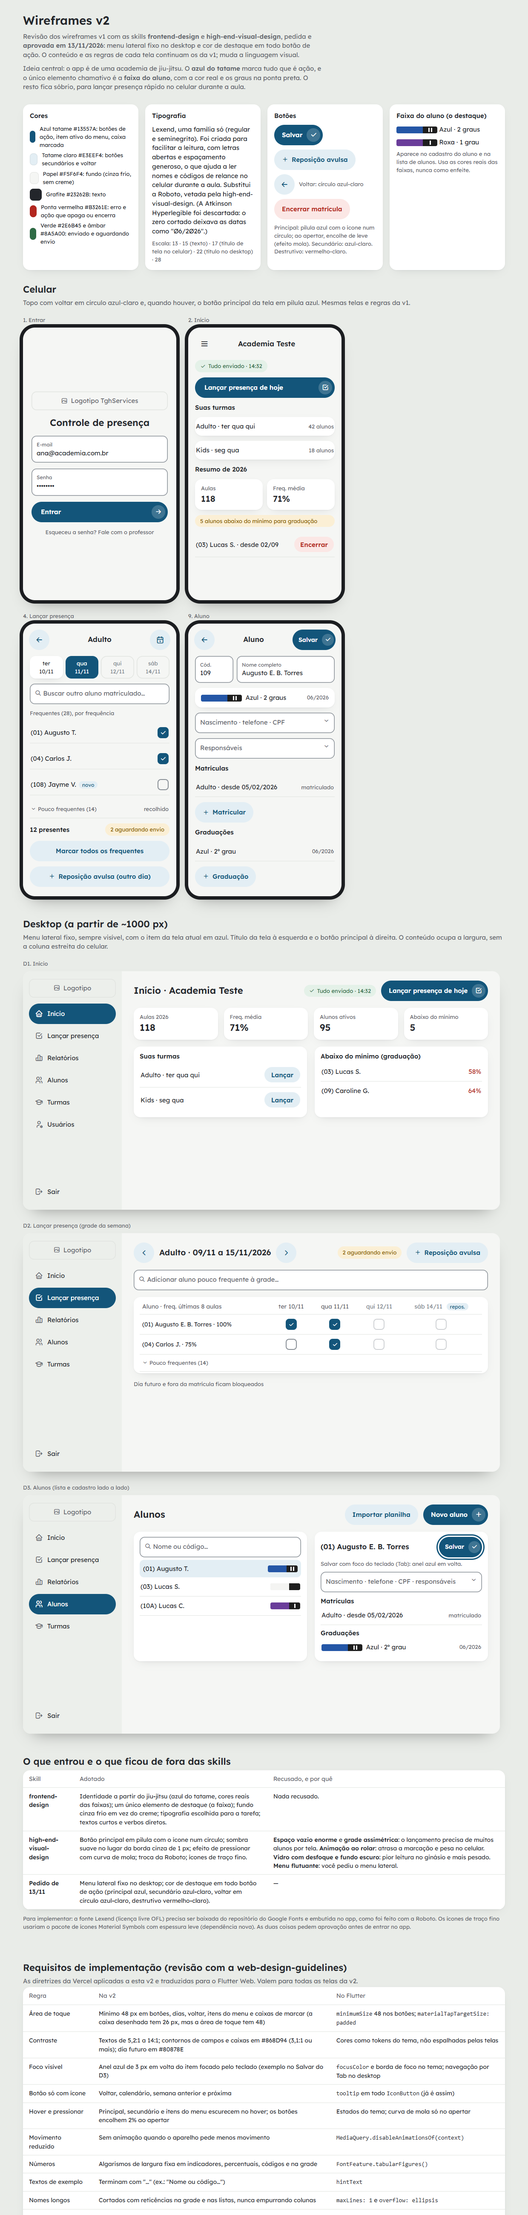
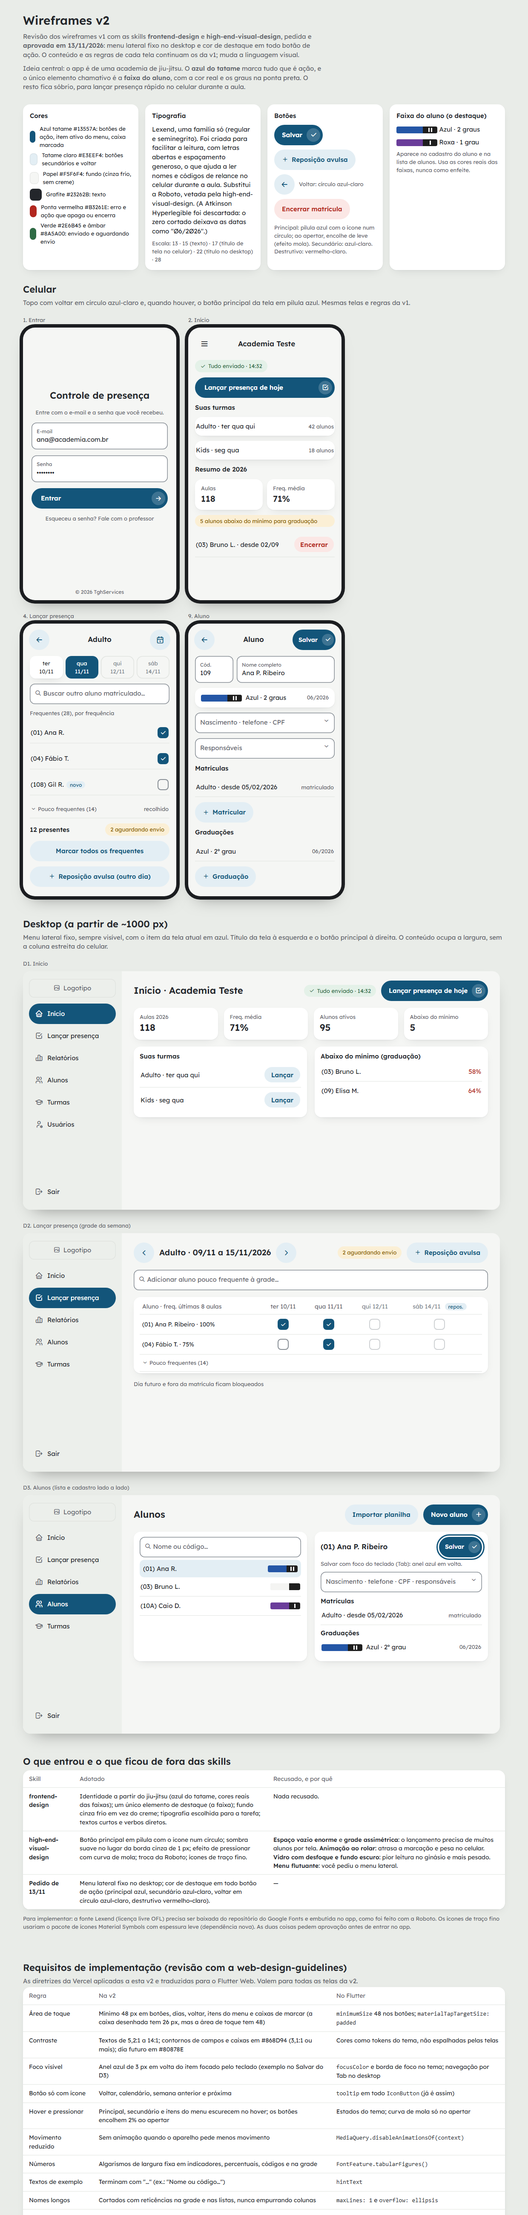
docs: troca nomes de alunos reais por fictícios nos wireframes e testes
Wireframes (fase 1, importação, relatórios e v2) e as imagens geradas
deles, manual 07 e testes da lista colada e do repositório de alunos.

Changed region(s): [[0.0613, 0.1558, 0.3371, 0.2492], [0.6129, 0.5919, 0.6435, 0.6231], [0.521, 0.5919, 0.5516, 0.6231]]

diff --git a/docs/telas/wireframes-fase1.html b/docs/telas/wireframes-fase1.html
@@ -68,7 +68,7 @@ body.uma .tela.ativa{display:block}
 <div style="display:flex;gap:8px"><div class="bx" style="flex:1">Aulas<br><b>118</b></div><div class="bx" style="flex:1">Freq. média<br><b>71%</b></div></div>
 <div class="wa">5 alunos abaixo do mínimo para graduação</div>
 <div class="wa">6 alunos sem vir há mais de 4 semanas</div>
-<div class="row"><span>(03) Lucas S. · desde 02/09</span><span class="bt" style="padding:4px 8px">Encerrar</span></div>
+<div class="row"><span>(03) Bruno L. · desde 02/09</span><span class="bt" style="padding:4px 8px">Encerrar</span></div>
 <div class="mu">Encerrar matrícula pede a data de fim (sugere a última presença). Sem logotipo cadastrado, mostra o nome da academia.</div>
 </div></div>
 
@@ -99,9 +99,9 @@ body.uma .tela.ativa{display:block}
 <div class="mu">Semana atual · dia futuro bloqueado · sáb = reposição fixa</div>
 <div class="bx"><i class="ti ti-search"></i> Buscar outro aluno matriculado</div>
 <div class="mu">Frequentes (28) · ordem por frequência</div>
-<div class="row"><span>(01) Augusto T.</span><span class="ck"><i class="ti ti-check"></i></span></div>
-<div class="row"><span>(04) Carlos J.</span><span class="ck"><i class="ti ti-check"></i></span></div>
-<div class="row"><span>(108) Jayme V. <span class="rp">novo</span></span><span class="ck"></span></div>
+<div class="row"><span>(01) Ana R.</span><span class="ck"><i class="ti ti-check"></i></span></div>
+<div class="row"><span>(04) Fábio T.</span><span class="ck"><i class="ti ti-check"></i></span></div>
+<div class="row"><span>(108) Gil R. <span class="rp">novo</span></span><span class="ck"></span></div>
 <div class="row"><span style="color:var(--t2)"><i class="ti ti-chevron-down"></i> Pouco frequentes (14)</span><span class="mu">recolhido</span></div>
 <div style="display:flex;justify-content:space-between;align-items:center"><span>12 presentes</span><span class="wa">2 aguardando envio</span></div>
 <div class="bt">Marcar todos os frequentes</div>
@@ -111,8 +111,8 @@ body.uma .tela.ativa{display:block}
 <div class="tela" id="t4b"><p class="lb">4b. Busca de aluno pouco frequente</p><div class="ph">
 <div class="bar"><i class="ti ti-arrow-left"></i><span>Adulto · qua 11/11</span><span></span></div>
 <div class="bx" style="color:var(--t1)"><i class="ti ti-search"></i> luc</div>
-<div class="row"><span>(03) Lucas S. <span class="mu">· 12% · última vez 02/09</span></span><span class="ck"></span></div>
-<div class="row"><span>(16) Lucas F. <span class="mu">· 0% · nunca veio</span></span><span class="ck"></span></div>
+<div class="row"><span>(03) Bruno L. <span class="mu">· 12% · última vez 02/09</span></span><span class="ck"></span></div>
+<div class="row"><span>(16) Hugo N. <span class="mu">· 0% · nunca veio</span></span><span class="ck"></span></div>
 <div class="mu">Ao marcar, o aluno volta para a lista de frequentes</div>
 </div></div>
 
@@ -127,10 +127,10 @@ body.uma .tela.ativa{display:block}
 <div class="tela" id="t6"><p class="lb">6. Frequência do semestre</p><div class="ph">
 <div class="bar"><i class="ti ti-arrow-left"></i><span>Graduação · Adulto</span><i class="ti ti-printer"></i></div>
 <div class="bx">2º sem. 2026 · até 11/11 · mínimo 75%</div>
-<div class="row"><span>(01) Augusto T.</span><span>92%</span></div>
-<div class="row"><span>(04) Carlos J.</span><span>81%</span></div>
-<div class="row" style="color:var(--dg)"><span>(03) Lucas S.</span><span>58%</span></div>
-<div class="row" style="color:var(--dg)"><span>(09) Caroline G.</span><span>64%</span></div>
+<div class="row"><span>(01) Ana R.</span><span>92%</span></div>
+<div class="row"><span>(04) Fábio T.</span><span>81%</span></div>
+<div class="row" style="color:var(--dg)"><span>(03) Bruno L.</span><span>58%</span></div>
+<div class="row" style="color:var(--dg)"><span>(09) Elisa M.</span><span>64%</span></div>
 <div class="mu">Presenças + reposições ÷ aulas lançadas na matrícula</div>
 </div></div>
 
@@ -150,16 +150,16 @@ body.uma .tela.ativa{display:block}
 <div class="bar"><i class="ti ti-arrow-left"></i><span>Alunos</span><i class="ti ti-plus"></i></div>
 <div class="bx"><i class="ti ti-search"></i> Nome ou código</div>
 <div class="mu">Ativos · 95</div>
-<div class="row"><span>(01) Augusto E. B. Torres</span><span class="mu">Adulto</span></div>
-<div class="row"><span>(03) Lucas V. S. da Mata</span><span class="mu">Adulto</span></div>
-<div class="row"><span>(10A) Lucas A. Costelinha</span><span class="mu">Kids</span></div>
+<div class="row"><span>(01) Ana P. Ribeiro</span><span class="mu">Adulto</span></div>
+<div class="row"><span>(03) Bruno S. Lima</span><span class="mu">Adulto</span></div>
+<div class="row"><span>(10A) Caio M. Duarte</span><span class="mu">Kids</span></div>
 <div class="bt">Importar planilha</div>
 </div></div>
 
 <div class="tela" id="t8b"><p class="lb">8b. Importar alunos · colar a lista</p><div class="ph">
 <div class="bar"><i class="ti ti-arrow-left"></i><span>Importar alunos</span><span></span></div>
 <div class="mu" style="color:var(--t2)">Na planilha, selecione as colunas código e nome, copie e cole aqui. Uma linha por aluno.</div>
-<div class="bx" style="min-height:140px;font-family:ui-monospace,Consolas,monospace;font-size:12px;line-height:1.6;color:var(--t1)">(01) Augusto E. B. Torres<br>(03) Lucas V. S. da Mata<br>10A&nbsp;&nbsp;Lucas A. Costelinha<br>...</div>
+<div class="bx" style="min-height:140px;font-family:ui-monospace,Consolas,monospace;font-size:12px;line-height:1.6;color:var(--t1)">(01) Ana P. Ribeiro<br>(03) Bruno S. Lima<br>10A&nbsp;&nbsp;Caio M. Duarte<br>...</div>
 <div class="mu">Código e nome separados por tab, ponto e vírgula ou espaço; "(10A)" vira "10A".</div>
 <div class="bt">Conferir lista</div>
 </div></div>
@@ -168,7 +168,7 @@ body.uma .tela.ativa{display:block}
 <div class="bar"><i class="ti ti-arrow-left"></i><span>Importar alunos</span><span></span></div>
 <div>95 linhas lidas</div>
 <div style="background:#fcebeb;color:var(--dg);border-radius:8px;padding:5px 10px;font-size:13px">Código 10A repetido nas linhas 12 e 40</div>
-<div style="background:#fcebeb;color:var(--dg);border-radius:8px;padding:5px 10px;font-size:13px">Código 03 já cadastrado (linha 2: Lucas V. S. da Mata)</div>
+<div style="background:#fcebeb;color:var(--dg);border-radius:8px;padding:5px 10px;font-size:13px">Código 03 já cadastrado (linha 2: Bruno S. Lima)</div>
 <div class="wa">Aviso: nome repetido "Ana Souza" (linhas 7 e 51)</div>
 <div class="mu">Corrija na planilha e cole de novo. Nada é gravado enquanto houver erro.</div>
 <div style="flex:1"></div>
@@ -267,8 +267,8 @@ body.uma .tela.ativa{display:block}
 <div class="row"><span>Adulto · ter qua qui</span><span class="bt">Lançar</span></div>
 <div class="row"><span>Kids · seg qua</span><span class="bt">Lançar</span></div></div>
 <div><div class="h">Abaixo do mínimo (graduação)</div>
-<div class="row"><span>(03) Lucas S.</span><span>58%</span></div>
-<div class="row"><span>(09) Caroline G.</span><span>64%</span></div></div>
+<div class="row"><span>(03) Bruno L.</span><span>58%</span></div>
+<div class="row"><span>(09) Elisa M.</span><span>64%</span></div></div>
 </div></div></div></div>
 
 <div class="tela dsk" id="d2"><p class="lb">D2. Lançar presença (desktop: grade da semana)</p><div class="dk"><div class="sd">
@@ -278,8 +278,8 @@ body.uma .tela.ativa{display:block}
 <div class="bar"><span>Adulto · semana de 09/11 a 15/11/2026</span><span style="display:flex;gap:8px"><span class="bt"><i class="ti ti-chevron-left"></i></span><span class="bt"><i class="ti ti-chevron-right"></i></span><span class="bt">+ Reposição avulsa</span></span></div>
 <div class="bx"><i class="ti ti-search"></i> Adicionar aluno pouco frequente à grade</div>
 <table class="tb"><tr><th>Aluno · freq. últimas 8 aulas</th><th>ter 10/11</th><th>qua 11/11</th><th class="off">qui 12/11</th><th class="off">sáb 14/11 <span class="rp">repos.</span></th></tr>
-<tr><td>(01) Augusto E. B. Torres · 100%</td><td><span class="ck"><i class="ti ti-check"></i></span></td><td><span class="ck"><i class="ti ti-check"></i></span></td><td><span class="ck off"></span></td><td><span class="ck off"></span></td></tr>
-<tr><td>(04) Carlos J. · 75%</td><td><span class="ck"></span></td><td><span class="ck"><i class="ti ti-check"></i></span></td><td><span class="ck off"></span></td><td><span class="ck off"></span></td></tr>
+<tr><td>(01) Ana P. Ribeiro · 100%</td><td><span class="ck"><i class="ti ti-check"></i></span></td><td><span class="ck"><i class="ti ti-check"></i></span></td><td><span class="ck off"></span></td><td><span class="ck off"></span></td></tr>
+<tr><td>(04) Fábio T. · 75%</td><td><span class="ck"></span></td><td><span class="ck"><i class="ti ti-check"></i></span></td><td><span class="ck off"></span></td><td><span class="ck off"></span></td></tr>
 <tr><td style="color:var(--t2)"><i class="ti ti-chevron-down"></i> Pouco frequentes (14)</td><td></td><td></td><td></td><td></td></tr>
 </table>
 <div style="display:flex;justify-content:space-between;align-items:center"><span class="mu">Dia futuro e fora da matrícula ficam bloqueados</span><span class="wa">2 aguardando envio</span></div>
@@ -290,11 +290,11 @@ body.uma .tela.ativa{display:block}
 <div class="it">Início</div><div class="it">Lançar presença</div><div class="it">Relatórios</div><div class="it at">Alunos</div><div class="it">Turmas</div>
 </div><div class="mn" style="display:grid;grid-template-columns:1fr 1.2fr;gap:16px">
 <div><div class="bx" style="margin-bottom:8px"><i class="ti ti-search"></i> Nome ou código</div>
-<div class="row" style="background:var(--s1)"><span>(01) Augusto T.</span><span class="mu">Adulto</span></div>
-<div class="row"><span>(03) Lucas S.</span><span class="mu">Adulto</span></div>
-<div class="row"><span>(10A) Lucas C.</span><span class="mu">Kids</span></div>
+<div class="row" style="background:var(--s1)"><span>(01) Ana R.</span><span class="mu">Adulto</span></div>
+<div class="row"><span>(03) Bruno L.</span><span class="mu">Adulto</span></div>
+<div class="row"><span>(10A) Caio D.</span><span class="mu">Kids</span></div>
 <div style="display:flex;gap:8px;margin-top:10px"><span class="bt">+ Novo aluno</span><span class="bt">Importar planilha</span></div></div>
-<div style="display:flex;flex-direction:column;gap:8px"><div class="bar"><span>(01) Augusto E. B. Torres</span><span class="bt">Salvar</span></div>
+<div style="display:flex;flex-direction:column;gap:8px"><div class="bar"><span>(01) Ana P. Ribeiro</span><span class="bt">Salvar</span></div>
 <div class="bx">Nascimento · telefone · CPF · responsáveis</div>
 <div class="h">Matrículas</div><div class="row"><span>Adulto · 05/02/2026 →</span><span class="mu">matriculado</span></div>
 <div class="h">Graduações</div><div class="row"><span>Azul · 2º grau</span><span class="mu">06/2026</span></div></div>
@@ -306,8 +306,8 @@ body.uma .tela.ativa{display:block}
 </div><div class="mn">
 <div class="bar"><span>Frequência para graduação · Adulto · 2º sem. 2026</span><span class="bt"><i class="ti ti-printer"></i> Imprimir / PDF</span></div>
 <table class="tb"><tr><th>Aluno</th><th>Aulas</th><th>Presenças</th><th>Reposições</th><th>Freq.</th></tr>
-<tr><td>(01) Augusto T.</td><td>48</td><td>43</td><td>1</td><td>92%</td></tr>
-<tr style="color:var(--dg)"><td>(03) Lucas S.</td><td>48</td><td>26</td><td>2</td><td>58%</td></tr></table>
+<tr><td>(01) Ana R.</td><td>48</td><td>43</td><td>1</td><td>92%</td></tr>
+<tr style="color:var(--dg)"><td>(03) Bruno L.</td><td>48</td><td>26</td><td>2</td><td>58%</td></tr></table>
 <div class="mu">Cabeçalho impresso: logotipo + academia + turma + cabeçalhos configurados</div>
 </div></div></div>
 

diff --git a/docs/telas/wireframes-relatorios.html b/docs/telas/wireframes-relatorios.html
@@ -165,9 +165,9 @@ td:first-child,th:first-child{text-align:left}
       <div class="cartao" style="padding:6px 12px">
         <div class="semana">2ª semana · 08/11 a 14/11</div>
         <table class="mini"><tr><th>Aluno</th><th>ter</th><th>qua</th><th>qui</th><th>sáb<br><span class="tag" style="margin:0">repos.</span></th><th>Total</th></tr>
-          <tr><td>(01) Augusto T.</td><td class="v"><i class="ti ti-check" aria-label="veio"></i></td><td class="v"><i class="ti ti-check" aria-label="veio"></i></td><td class="v"><i class="ti ti-check" aria-label="veio"></i></td><td class="x">·</td><td>3</td></tr>
-          <tr><td>(02) Beatriz N.</td><td class="v"><i class="ti ti-check" aria-label="veio"></i></td><td class="v"><i class="ti ti-check" aria-label="veio"></i></td><td class="x">·</td><td class="x">·</td><td>2</td></tr>
-          <tr><td>(03) Lucas S.</td><td class="v"><i class="ti ti-check" aria-label="veio"></i></td><td class="x">·</td><td class="x">·</td><td class="x">·</td><td>1</td></tr>
+          <tr><td>(01) Ana R.</td><td class="v"><i class="ti ti-check" aria-label="veio"></i></td><td class="v"><i class="ti ti-check" aria-label="veio"></i></td><td class="v"><i class="ti ti-check" aria-label="veio"></i></td><td class="x">·</td><td>3</td></tr>
+          <tr><td>(02) Diana F.</td><td class="v"><i class="ti ti-check" aria-label="veio"></i></td><td class="v"><i class="ti ti-check" aria-label="veio"></i></td><td class="x">·</td><td class="x">·</td><td>2</td></tr>
+          <tr><td>(03) Bruno L.</td><td class="v"><i class="ti ti-check" aria-label="veio"></i></td><td class="x">·</td><td class="x">·</td><td class="x">·</td><td>1</td></tr>
           <tr><td>Presentes</td><td>5</td><td>4</td><td>5</td><td>–</td><td></td></tr></table>
       </div>
       <div style="display:flex;justify-content:space-between"><span class="bs"><i class="ti ti-chevron-left"></i>1ª semana</span><span class="bs">3ª semana<i class="ti ti-chevron-right"></i></span></div>
@@ -181,9 +181,9 @@ td:first-child,th:first-child{text-align:left}
       <div class="mu">01/08 a 30/11/2026 · mínimo 75%</div>
       <div class="cartao" style="padding:6px 12px">
         <table class="mini"><tr><th>Aluno</th><th>ago</th><th>set</th><th>out</th><th>nov</th><th>Freq.</th></tr>
-          <tr><td>(01) Augusto T.</td><td>12</td><td>13</td><td>14</td><td>6</td><td>100%</td></tr>
-          <tr><td>(02) Beatriz N.</td><td>11</td><td>12</td><td>12</td><td>5</td><td>90%</td></tr>
-          <tr><td>(03) Lucas S.</td><td>7</td><td>6</td><td>8</td><td>3</td><td class="baixo">53%</td></tr>
+          <tr><td>(01) Ana R.</td><td>12</td><td>13</td><td>14</td><td>6</td><td>100%</td></tr>
+          <tr><td>(02) Diana F.</td><td>11</td><td>12</td><td>12</td><td>5</td><td>90%</td></tr>
+          <tr><td>(03) Bruno L.</td><td>7</td><td>6</td><td>8</td><td>3</td><td class="baixo">53%</td></tr>
           <tr><td>Aulas</td><td>12</td><td>13</td><td>14</td><td>6</td><td></td></tr></table>
       </div>
       <div class="mu">Toque no aluno para ver aulas, presenças e reposições do período.</div>
@@ -196,9 +196,9 @@ td:first-child,th:first-child{text-align:left}
       <div class="mu">2026 · role para o lado para ver todos os meses</div>
       <div class="cartao" style="padding:6px 12px;overflow:hidden">
         <table class="mini"><tr><th>Aluno</th><th>jan</th><th>fev</th><th>mar</th><th>…</th><th>dez</th><th>Total</th></tr>
-          <tr><td>(01) Augusto T.</td><td>10</td><td>11</td><td>13</td><td>…</td><td>–</td><td>118</td></tr>
-          <tr><td>(02) Beatriz N.</td><td>9</td><td>12</td><td>11</td><td>…</td><td>–</td><td>104</td></tr>
-          <tr><td>(03) Lucas S.</td><td>6</td><td>5</td><td>7</td><td>…</td><td>–</td><td>61</td></tr>
+          <tr><td>(01) Ana R.</td><td>10</td><td>11</td><td>13</td><td>…</td><td>–</td><td>118</td></tr>
+          <tr><td>(02) Diana F.</td><td>9</td><td>12</td><td>11</td><td>…</td><td>–</td><td>104</td></tr>
+          <tr><td>(03) Bruno L.</td><td>6</td><td>5</td><td>7</td><td>…</td><td>–</td><td>61</td></tr>
           <tr><td>Aulas</td><td>12</td><td>12</td><td>13</td><td>…</td><td>–</td><td>131</td></tr></table>
       </div>
       <div class="mu">Mês futuro com "–"; a coluna do aluno fica fixa ao rolar.</div>
@@ -208,7 +208,7 @@ td:first-child,th:first-child{text-align:left}
   <div><p class="rot">7d. Por aluno</p><div class="cel">
     <div class="topo"><span class="voltar"><i class="ti ti-arrow-left"></i></span><span class="tit">Por aluno</span><span class="voltar"><i class="ti ti-printer"></i></span></div>
     <div class="corpo">
-      <div class="campo"><b>Aluno</b><span>(03) Lucas Siqueira</span> <i class="ti ti-search" style="float:right"></i></div>
+      <div class="campo"><b>Aluno</b><span>(03) Bruno Lima</span> <i class="ti ti-search" style="float:right"></i></div>
       <div style="display:flex;gap:10px">
         <div class="cartao" style="flex:1"><div class="mu">Aulas</div><div class="h" style="font-size:20px">14</div></div>
         <div class="cartao" style="flex:1"><div class="mu">Veio</div><div class="h" style="font-size:20px">8</div><div class="mu">1 reposição</div></div>
@@ -251,8 +251,8 @@ td:first-child,th:first-child{text-align:left}
       <div class="cartao" style="padding:6px 14px">
         <table><tr><th rowspan="2">Aluno</th><th colspan="4">1ª sem. · 01 a 07/11</th><th colspan="4">2ª sem. · 08 a 14/11</th><th rowspan="2">Total</th></tr>
           <tr><th>ter</th><th>qua</th><th>qui</th><th>sáb</th><th>ter</th><th>qua</th><th>qui</th><th>sáb</th></tr>
-          <tr><td>(01) Augusto E. B. Torres</td><td class="v"><i class="ti ti-check" aria-label="veio"></i></td><td class="v"><i class="ti ti-check" aria-label="veio"></i></td><td class="v"><i class="ti ti-check" aria-label="veio"></i></td><td class="x">·</td><td class="v"><i class="ti ti-check" aria-label="veio"></i></td><td class="v"><i class="ti ti-check" aria-label="veio"></i></td><td class="v"><i class="ti ti-check" aria-label="veio"></i></td><td class="x">·</td><td>6</td></tr>
-          <tr><td>(02) Beatriz Nogueira</td><td class="x">·</td><td class="v"><i class="ti ti-check" aria-label="veio"></i></td><td class="v"><i class="ti ti-check" aria-label="veio"></i></td><td class="x">·</td><td class="v"><i class="ti ti-check" aria-label="veio"></i></td><td class="v"><i class="ti ti-check" aria-label="veio"></i></td><td class="x">·</td><td class="x">·</td><td>4</td></tr>
+          <tr><td>(01) Ana P. Ribeiro</td><td class="v"><i class="ti ti-check" aria-label="veio"></i></td><td class="v"><i class="ti ti-check" aria-label="veio"></i></td><td class="v"><i class="ti ti-check" aria-label="veio"></i></td><td class="x">·</td><td class="v"><i class="ti ti-check" aria-label="veio"></i></td><td class="v"><i class="ti ti-check" aria-label="veio"></i></td><td class="v"><i class="ti ti-check" aria-label="veio"></i></td><td class="x">·</td><td>6</td></tr>
+          <tr><td>(02) Diana Freitas</td><td class="x">·</td><td class="v"><i class="ti ti-check" aria-label="veio"></i></td><td class="v"><i class="ti ti-check" aria-label="veio"></i></td><td class="x">·</td><td class="v"><i class="ti ti-check" aria-label="veio"></i></td><td class="v"><i class="ti ti-check" aria-label="veio"></i></td><td class="x">·</td><td class="x">·</td><td>4</td></tr>
           <tr><td>(08) Gabriel Antunes</td><td></td><td></td><td></td><td></td><td></td><td class="v"><i class="ti ti-check" aria-label="veio"></i></td><td class="v"><i class="ti ti-check" aria-label="veio"></i></td><td class="x">·</td><td>2</td></tr>
           <tr><td>Presentes</td><td>4</td><td>5</td><td>3</td><td>0</td><td>5</td><td>4</td><td>5</td><td>–</td><td></td></tr></table>
       </div>
@@ -282,9 +282,9 @@ td:first-child,th:first-child{text-align:left}
       <div class="seg"><span class="chip"><i class="ti ti-calendar-week"></i>Semanal</span><span class="chip"><i class="ti ti-calendar-month"></i>Mensal</span><span class="chip at"><i class="ti ti-calendar"></i>Anual</span><span class="chip"><i class="ti ti-user"></i>Por aluno</span><span class="chip"><i class="ti ti-award"></i>Graduação</span></div>
       <div class="cartao" style="padding:6px 14px">
         <table><tr><th>Aluno</th><th>JAN</th><th>FEV</th><th>MAR</th><th>ABR</th><th>MAI</th><th>JUN</th><th>JUL</th><th>AGO</th><th>SET</th><th>OUT</th><th>NOV</th><th>DEZ</th><th>Total</th></tr>
-          <tr><td>(01) Augusto E. B. Torres</td><td>10</td><td>11</td><td>13</td><td>12</td><td>12</td><td>11</td><td>9</td><td>12</td><td>13</td><td>14</td><td>6</td><td>–</td><td>123</td></tr>
-          <tr><td>(02) Beatriz Nogueira</td><td>9</td><td>12</td><td>11</td><td>10</td><td>11</td><td>9</td><td>8</td><td>11</td><td>12</td><td>12</td><td>5</td><td>–</td><td>110</td></tr>
-          <tr><td>(03) Lucas Siqueira</td><td>6</td><td>5</td><td>7</td><td>6</td><td>5</td><td>6</td><td>4</td><td>7</td><td>6</td><td>8</td><td>3</td><td>–</td><td>63</td></tr>
+          <tr><td>(01) Ana P. Ribeiro</td><td>10</td><td>11</td><td>13</td><td>12</td><td>12</td><td>11</td><td>9</td><td>12</td><td>13</td><td>14</td><td>6</td><td>–</td><td>123</td></tr>
+          <tr><td>(02) Diana Freitas</td><td>9</td><td>12</td><td>11</td><td>10</td><td>11</td><td>9</td><td>8</td><td>11</td><td>12</td><td>12</td><td>5</td><td>–</td><td>110</td></tr>
+          <tr><td>(03) Bruno Lima</td><td>6</td><td>5</td><td>7</td><td>6</td><td>5</td><td>6</td><td>4</td><td>7</td><td>6</td><td>8</td><td>3</td><td>–</td><td>63</td></tr>
           <tr><td>Aulas</td><td>12</td><td>12</td><td>13</td><td>13</td><td>13</td><td>12</td><td>10</td><td>12</td><td>13</td><td>14</td><td>6</td><td>–</td><td>130</td></tr></table>
       </div>
     </div>
@@ -299,9 +299,9 @@ td:first-child,th:first-child{text-align:left}
       <div style="flex:1"><h3>Academia Teste</h3><div>Prof. Fulano · cabeçalho de impressão da academia</div><div><b>Turma Adulto</b> · cabeçalho de impressão da turma</div></div>
       <div style="text-align:right"><b>Presença mensal</b><br>01/08 a 30/11/2026<br>Mínimo 75%</div></div>
     <table><tr><th style="text-align:left">Aluno</th><th>ago</th><th>set</th><th>out</th><th>nov</th><th>Aulas</th><th>Presenças</th><th>Repos.</th><th>Freq.</th></tr>
-      <tr><td style="text-align:left">(01) Augusto Eduardo Barbosa Torres</td><td>12</td><td>13</td><td>14</td><td>6</td><td>45</td><td>45</td><td>0</td><td>100%</td></tr>
-      <tr><td style="text-align:left">(02) Beatriz Nogueira</td><td>11</td><td>12</td><td>12</td><td>5</td><td>45</td><td>40</td><td>1</td><td>91%</td></tr>
-      <tr><td style="text-align:left">(03) Lucas Siqueira</td><td>7</td><td>6</td><td>8</td><td>3</td><td>45</td><td>24</td><td>0</td><td><b>53%</b></td></tr></table>
+      <tr><td style="text-align:left">(01) Ana Paula Ribeiro</td><td>12</td><td>13</td><td>14</td><td>6</td><td>45</td><td>45</td><td>0</td><td>100%</td></tr>
+      <tr><td style="text-align:left">(02) Diana Freitas</td><td>11</td><td>12</td><td>12</td><td>5</td><td>45</td><td>40</td><td>1</td><td>91%</td></tr>
+      <tr><td style="text-align:left">(03) Bruno Lima</td><td>7</td><td>6</td><td>8</td><td>3</td><td>45</td><td>24</td><td>0</td><td><b>53%</b></td></tr></table>
     <p style="margin:14px 0 0;color:#555">Frequência = presenças + reposições ÷ aulas regulares lançadas dentro da matrícula (limite de 100%). Gerado em 13/11/2026 às 10:15 por Ana (assistente).</p>
   </div></div>
 </div>

diff --git a/docs/telas/wireframes-v2.html b/docs/telas/wireframes-v2.html
@@ -160,7 +160,7 @@ td:first-child,th:first-child{text-align:left}
       <div class="h">Resumo de 2026</div>
       <div style="display:flex;gap:10px"><div class="cartao" style="flex:1"><div class="mu">Aulas</div><div class="h" style="font-size:20px">118</div></div><div class="cartao" style="flex:1"><div class="mu">Freq. média</div><div class="h" style="font-size:20px">71%</div></div></div>
       <div class="av">5 alunos abaixo do mínimo para graduação</div>
-      <div class="lin">(03) Lucas S. · desde 02/09<span class="bs bd" style="min-height:36px;padding:6px 14px">Encerrar</span></div>
+      <div class="lin">(03) Bruno L. · desde 02/09<span class="bs bd" style="min-height:36px;padding:6px 14px">Encerrar</span></div>
     </div>
   </div></div>
 
@@ -170,9 +170,9 @@ td:first-child,th:first-child{text-align:left}
       <div class="dias"><div class="dia">ter<br>10/11</div><div class="dia sel">qua<br>11/11</div><div class="dia off">qui<br>12/11</div><div class="dia off">sáb<br>14/11</div></div>
       <div class="campo"><i class="ti ti-search"></i> Buscar outro aluno matriculado…</div>
       <div class="mu">Frequentes (28), por frequência</div>
-      <div class="lin">(01) Augusto T.<span class="ck on"><i class="ti ti-check"></i></span></div>
-      <div class="lin">(04) Carlos J.<span class="ck on"><i class="ti ti-check"></i></span></div>
-      <div class="lin"><span>(108) Jayme V.<span class="tag">novo</span></span><span class="ck"></span></div>
+      <div class="lin">(01) Ana R.<span class="ck on"><i class="ti ti-check"></i></span></div>
+      <div class="lin">(04) Fábio T.<span class="ck on"><i class="ti ti-check"></i></span></div>
+      <div class="lin"><span>(108) Gil R.<span class="tag">novo</span></span><span class="ck"></span></div>
       <div class="lin mu"><span><i class="ti ti-chevron-down"></i> Pouco frequentes (14)</span>recolhido</div>
       <div style="display:flex;justify-content:space-between;align-items:center"><span class="h">12 presentes</span><span class="av">2 aguardando envio</span></div>
       <span class="bs lg">Marcar todos os frequentes</span>
@@ -183,7 +183,7 @@ td:first-child,th:first-child{text-align:left}
   <div><p class="rot">9. Aluno</p><div class="cel">
     <div class="topo"><span class="voltar"><i class="ti ti-arrow-left"></i></span><span class="tit">Aluno</span><span class="bp sm">Salvar<span class="ic"><i class="ti ti-check"></i></span></span></div>
     <div class="corpo">
-      <div style="display:flex;gap:8px"><div class="campo" style="width:90px"><b>Cód.</b><span>109</span></div><div class="campo" style="flex:1"><b>Nome completo</b><span>Augusto E. B. Torres</span></div></div>
+      <div style="display:flex;gap:8px"><div class="campo" style="width:90px"><b>Cód.</b><span>109</span></div><div class="campo" style="flex:1"><b>Nome completo</b><span>Ana P. Ribeiro</span></div></div>
       <div class="cartao" style="display:flex;align-items:center;justify-content:space-between"><span><span class="faixa"><span class="cor f-azul"></span><span class="pt"><i></i><i></i></span></span> &nbsp;Azul · 2 graus</span><span class="mu">06/2026</span></div>
       <div class="campo">Nascimento · telefone · CPF <i class="ti ti-chevron-down" style="float:right"></i></div>
       <div class="campo">Responsáveis <i class="ti ti-chevron-down" style="float:right"></i></div>
@@ -226,8 +226,8 @@ td:first-child,th:first-child{text-align:left}
           <div class="lin">Adulto · ter qua qui<span class="bs" style="min-height:36px;padding:6px 16px">Lançar</span></div>
           <div class="lin" style="border:0">Kids · seg qua<span class="bs" style="min-height:36px;padding:6px 16px">Lançar</span></div></div>
         <div class="cartao"><div class="h" style="margin-bottom:4px">Abaixo do mínimo (graduação)</div>
-          <div class="lin">(03) Lucas S.<span style="color:var(--ponta)">58%</span></div>
-          <div class="lin" style="border:0">(09) Caroline G.<span style="color:var(--ponta)">64%</span></div></div>
+          <div class="lin">(03) Bruno L.<span style="color:var(--ponta)">58%</span></div>
+          <div class="lin" style="border:0">(09) Elisa M.<span style="color:var(--ponta)">64%</span></div></div>
       </div>
     </div>
   </div></div>
@@ -248,8 +248,8 @@ td:first-child,th:first-child{text-align:left}
       <div class="campo"><i class="ti ti-search"></i> Adicionar aluno pouco frequente à grade…</div>
       <div class="cartao" style="padding:4px 14px"><table>
         <tr><th>Aluno · freq. últimas 8 aulas</th><th>ter 10/11</th><th>qua 11/11</th><th style="color:var(--desativado)">qui 12/11</th><th style="color:var(--desativado)">sáb 14/11 <span class="tag">repos.</span></th></tr>
-        <tr><td>(01) Augusto E. B. Torres · 100%</td><td><span class="ck on" style="margin:auto"><i class="ti ti-check"></i></span></td><td><span class="ck on" style="margin:auto"><i class="ti ti-check"></i></span></td><td><span class="ck" style="margin:auto;opacity:.4"></span></td><td><span class="ck" style="margin:auto;opacity:.4"></span></td></tr>
-        <tr><td>(04) Carlos J. · 75%</td><td><span class="ck" style="margin:auto"></span></td><td><span class="ck on" style="margin:auto"><i class="ti ti-check"></i></span></td><td><span class="ck" style="margin:auto;opacity:.4"></span></td><td><span class="ck" style="margin:auto;opacity:.4"></span></td></tr>
+        <tr><td>(01) Ana P. Ribeiro · 100%</td><td><span class="ck on" style="margin:auto"><i class="ti ti-check"></i></span></td><td><span class="ck on" style="margin:auto"><i class="ti ti-check"></i></span></td><td><span class="ck" style="margin:auto;opacity:.4"></span></td><td><span class="ck" style="margin:auto;opacity:.4"></span></td></tr>
+        <tr><td>(04) Fábio T. · 75%</td><td><span class="ck" style="margin:auto"></span></td><td><span class="ck on" style="margin:auto"><i class="ti ti-check"></i></span></td><td><span class="ck" style="margin:auto;opacity:.4"></span></td><td><span class="ck" style="margin:auto;opacity:.4"></span></td></tr>
         <tr><td colspan="5" class="mu"><i class="ti ti-chevron-down"></i> Pouco frequentes (14)</td></tr>
       </table></div>
       <div class="mu">Dia futuro e fora da matrícula ficam bloqueados</div>
@@ -272,12 +272,12 @@ td:first-child,th:first-child{text-align:left}
       <div class="dois">
         <div class="cartao">
           <div class="campo" style="margin-bottom:6px"><i class="ti ti-search"></i> Nome ou código…</div>
-          <div class="lin" style="background:var(--tatame-claro);border-radius:10px;padding:10px 8px;border:0"><span>(01) Augusto T.</span><span class="faixa" style="width:70px"><span class="cor f-azul"></span><span class="pt" style="width:26px"><i></i><i></i></span></span></div>
-          <div class="lin"><span>(03) Lucas S.</span><span class="faixa" style="width:70px"><span class="cor f-branca"></span><span class="pt" style="width:26px"></span></span></div>
-          <div class="lin"><span>(10A) Lucas C.</span><span class="faixa" style="width:70px"><span class="cor f-roxa"></span><span class="pt" style="width:26px"><i></i></span></span></div>
+          <div class="lin" style="background:var(--tatame-claro);border-radius:10px;padding:10px 8px;border:0"><span>(01) Ana R.</span><span class="faixa" style="width:70px"><span class="cor f-azul"></span><span class="pt" style="width:26px"><i></i><i></i></span></span></div>
+          <div class="lin"><span>(03) Bruno L.</span><span class="faixa" style="width:70px"><span class="cor f-branca"></span><span class="pt" style="width:26px"></span></span></div>
+          <div class="lin"><span>(10A) Caio D.</span><span class="faixa" style="width:70px"><span class="cor f-roxa"></span><span class="pt" style="width:26px"><i></i></span></span></div>
         </div>
         <div class="cartao">
-          <div class="cab"><span class="tit" style="font-size:17px">(01) Augusto E. B. Torres</span><span class="bp sm foco">Salvar<span class="ic"><i class="ti ti-check"></i></span></span></div>
+          <div class="cab"><span class="tit" style="font-size:17px">(01) Ana P. Ribeiro</span><span class="bp sm foco">Salvar<span class="ic"><i class="ti ti-check"></i></span></span></div>
           <div class="mu" style="margin-top:6px">Salvar com foco do teclado (Tab): anel azul em volta.</div>
           <div class="campo" style="margin:10px 0">Nascimento · telefone · CPF · responsáveis <i class="ti ti-chevron-down" style="float:right"></i></div>
           <div class="h">Matrículas</div>

diff --git a/docs/telas/wireframes-importacao.html b/docs/telas/wireframes-importacao.html
@@ -145,7 +145,7 @@ td:first-child,th:first-child{text-align:left}
     <div class="topo"><span class="voltar"><i class="ti ti-arrow-left"></i></span><span class="tit">Importar alunos</span><span style="width:48px"></span></div>
     <div class="corpo">
       <div class="mu" style="font-size:14px">Na planilha, selecione as colunas código e nome, copie e cole aqui. Uma linha por aluno.</div>
-      <div class="colado">(01) Augusto E. B. Torres<br>(03) Lucas V. S. da Mata<br>10A&nbsp;&nbsp;Lucas A. Costelinha<br>...</div>
+      <div class="colado">(01) Ana P. Ribeiro<br>(03) Bruno S. Lima<br>10A&nbsp;&nbsp;Caio M. Duarte<br>...</div>
       <div class="mu">Código e nome separados por tab, ponto e vírgula ou espaço; "(10A)" vira "10A".</div>
       <div class="novo" style="display:flex;flex-direction:column;gap:10px">
         <div class="grupo">Matricular numa turma <span class="mu" style="font-weight:400">(opcional)</span></div>
@@ -161,7 +161,7 @@ td:first-child,th:first-child{text-align:left}
   <div><p class="rot">8b. Escolher a turma (lista aberta)</p><div class="cel">
     <div class="topo"><span class="voltar"><i class="ti ti-arrow-left"></i></span><span class="tit">Importar alunos</span><span style="width:48px"></span></div>
     <div class="corpo">
-      <div class="colado" style="min-height:70px;opacity:.6">(01) Augusto E. B. Torres<br>(03) Lucas V. S. da Mata<br>...</div>
+      <div class="colado" style="min-height:70px;opacity:.6">(01) Ana P. Ribeiro<br>(03) Bruno S. Lima<br>...</div>
       <div class="grupo">Matricular numa turma <span class="mu" style="font-weight:400">(opcional)</span></div>
       <div class="campo foco"><b>Turma</b><span>Não matricular (só cadastrar)</span> <i class="ti ti-chevron-up" style="float:right"></i></div>
       <div class="lista novo">
@@ -193,7 +193,7 @@ td:first-child,th:first-child{text-align:left}
     <div class="corpo">
       <div>95 linhas lidas</div>
       <div class="erf">Código 10A repetido nas linhas 12 e 40</div>
-      <div class="erf">Código 03 já cadastrado (linha 2: Lucas V. S. da Mata)</div>
+      <div class="erf">Código 03 já cadastrado (linha 2: Bruno S. Lima)</div>
       <div class="avf">Aviso: nome repetido "Ana Souza" (linhas 7 e 51)</div>
       <div class="info novo" style="background:var(--cartao);color:var(--nevoa);box-shadow:inset 0 0 0 1.5px var(--linha)"><i class="ti ti-user-plus"></i><span>Só cadastro: nenhuma matrícula será criada.</span></div>
       <div class="mu">Corrija na planilha e cole de novo. Nada é gravado enquanto houver erro.</div>
@@ -224,7 +224,7 @@ td:first-child,th:first-child{text-align:left}
       <div style="display:grid;grid-template-columns:1fr 340px;gap:20px;max-width:840px">
         <div style="display:flex;flex-direction:column;gap:10px">
           <div class="mu" style="font-size:14px">Na planilha, selecione as colunas código e nome, copie e cole aqui. Uma linha por aluno.</div>
-          <div class="colado" style="min-height:220px">(01) Augusto E. B. Torres<br>(03) Lucas V. S. da Mata<br>10A&nbsp;&nbsp;Lucas A. Costelinha<br>(11) Beatriz Nogueira<br>...</div>
+          <div class="colado" style="min-height:220px">(01) Ana P. Ribeiro<br>(03) Bruno S. Lima<br>10A&nbsp;&nbsp;Caio M. Duarte<br>(11) Diana Freitas<br>...</div>
           <div class="mu">Código e nome separados por tab, ponto e vírgula ou espaço; "(10A)" vira "10A".</div>
         </div>
         <div class="novo" style="display:flex;flex-direction:column;gap:10px;align-self:start">

diff --git a/app/test/regras/lista_colada_test.dart b/app/test/regras/lista_colada_test.dart
@@ -9,16 +9,16 @@ void main() {
   test('cópia de planilha separa por tab e ignora colunas a mais', () {
     expect(
       _ler(
-        '(01)\tAugusto E. B. Torres\tAdulto\r\n10A\tLucas A. Costelinha\r\n',
+        '(01)\tAna P. Ribeiro\tAdulto\r\n10A\tCaio M. Duarte\r\n',
       ),
-      [(1, '(01)', 'Augusto E. B. Torres'), (2, '10A', 'Lucas A. Costelinha')],
+      [(1, '(01)', 'Ana P. Ribeiro'), (2, '10A', 'Caio M. Duarte')],
     );
   });
 
   test('ponto e vírgula e espaço também separam', () {
-    expect(_ler('03;Lucas V. S. da Mata\n(10A)   Lucas  A.  Costelinha'), [
-      (1, '03', 'Lucas V. S. da Mata'),
-      (2, '(10A)', 'Lucas A. Costelinha'),
+    expect(_ler('03;Bruno S. Lima\n(10A)   Caio  M.  Duarte'), [
+      (1, '03', 'Bruno S. Lima'),
+      (2, '(10A)', 'Caio M. Duarte'),
     ]);
   });
 

diff --git a/app/test/dados/repositorio_alunos_test.dart b/app/test/dados/repositorio_alunos_test.dart
@@ -88,7 +88,7 @@ void main() {
         {
           'id': 'a1',
           'codigo': '01',
-          'nome': 'Augusto',
+          'nome': 'Paula',
           'ativo': 1,
           'turmas': ['Adulto'],
         },
@@ -205,7 +205,7 @@ void main() {
         },
       ],
       'codigos_existentes': [
-        {'codigo': '03', 'linha': 4, 'nome_cadastrado': 'Lucas'},
+        {'codigo': '03', 'linha': 4, 'nome_cadastrado': 'Bruno'},
       ],
       'nomes_repetidos': [
         {
@@ -225,7 +225,7 @@ void main() {
     expect(conferido.relatorio.codigosRepetidos.single.linhas, [1, 2]);
     expect(
       conferido.relatorio.codigosExistentes.single.nomeCadastrado,
-      'Lucas',
+      'Bruno',
     );
     expect(conferido.relatorio.nomesRepetidos.single.nome, 'Ana');
     expect(jsonDecode(recebidas.last.body), {

diff --git a/docs/manuais/07-importar-alunos-da-planilha.md b/docs/manuais/07-importar-alunos-da-planilha.md
@@ -8,8 +8,8 @@
 
 | Código | Nome |
 |---|---|
-| (01) | Augusto Eduardo Barbosa Torres |
-| (03) | Lucas Vieira Santos da Mata |
+| (01) | Ana Paula Ribeiro |
+| (03) | Bruno Silva Lima |
 
 - A turma já existe ([manual 03](03-abrir-turma-nova.md)). Se os alunos são de turmas diferentes, importe uma turma de cada vez.
 
